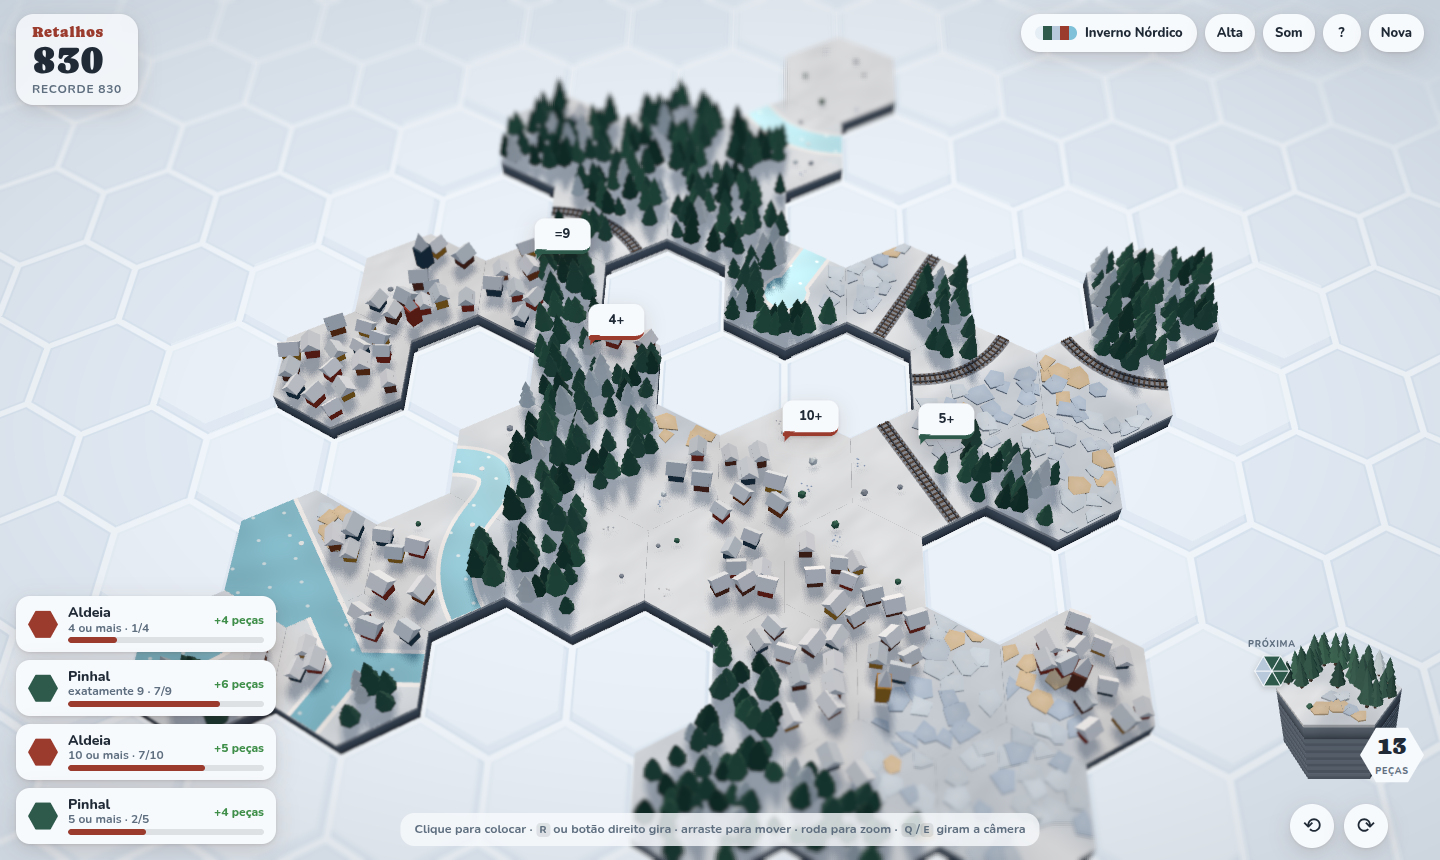
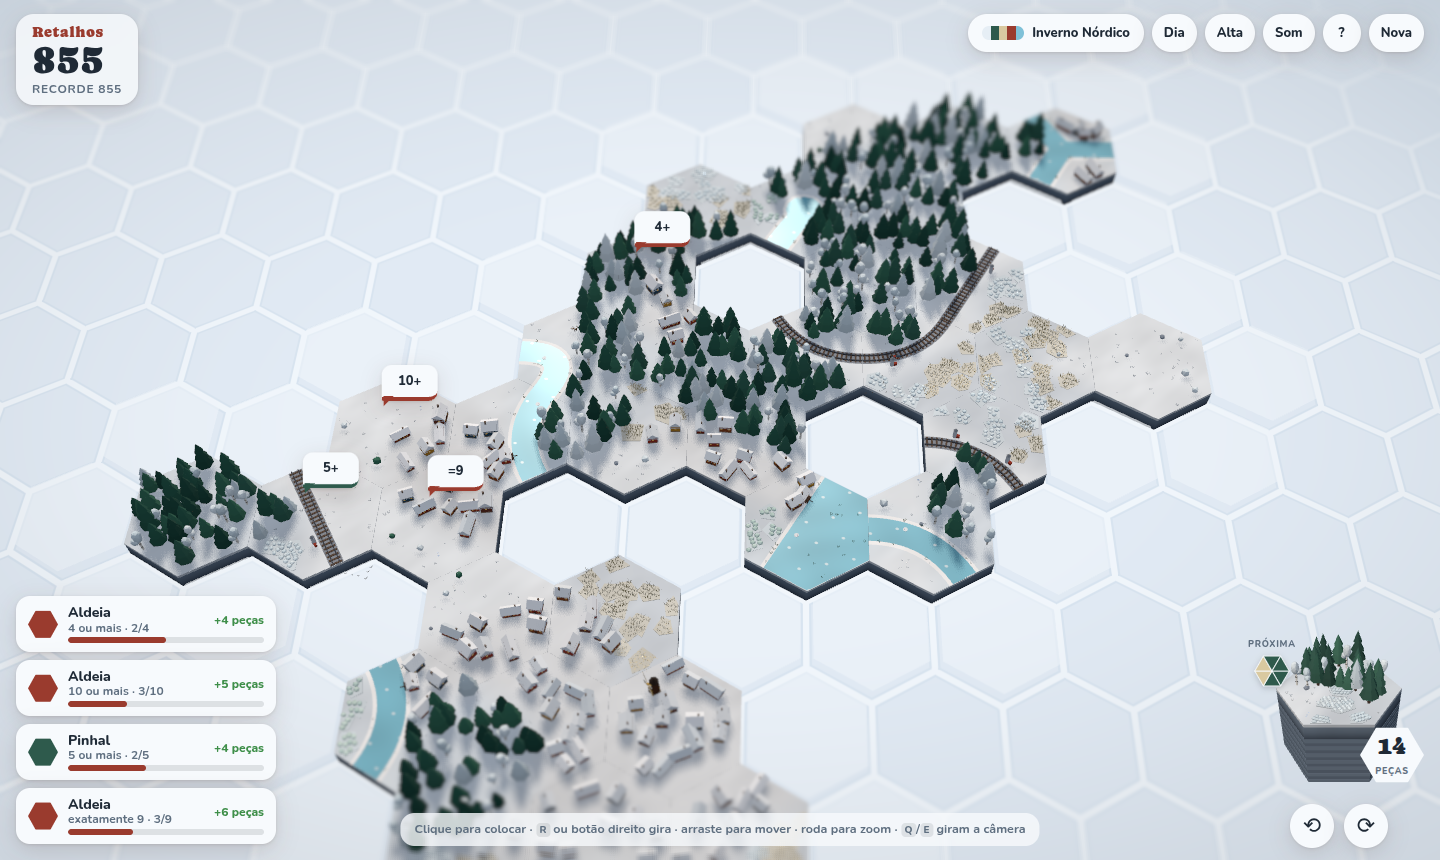
Documentação da v3, rótulos curtos no celular, burro e búfalo
- README: temas por época, interações, hora do dia, parâmetros novos
- VIABILIDADE: seção 13 (v3) com telas, custo do visual e otimizações
- Barra superior com ícones em telas estreitas; amostras de cor com borda
- Kits de animal burro/mula e búfalo (Minas Colonial e Song), sugeridos
  na pesquisa de temas

Claude-Session: https://claude.ai/code/session_01LLbuUXnr1j997yzXR9YYTE

diff --git a/src/render/lib.ts b/src/render/lib.ts
@@ -666,6 +666,10 @@ function animalGeometry(kind: AnimalKind): THREE.BufferGeometry {
       return kit([{ geo: box(0.052, 0.026, 0.024, 0, 0.022), color: '#fff', tint: 1 }, { geo: box(0.018, 0.018, 0.016, 0.034, 0.03), color: '#fff', tint: 1 }, { geo: box(0.006, 0.006, 0.016, 0.044, 0.028), color: '#e8b8a8' }, ...legs(0.018, 0.008, 0.022, '#3a3230')]);
     case 'horse':
       return kit([{ geo: box(0.048, 0.022, 0.017, 0, 0.03), color: '#fff', tint: 1 }, { geo: box(0.012, 0.028, 0.012, 0.026, 0.044).rotateZ(-0.35), color: '#fff', tint: 1 }, { geo: box(0.02, 0.01, 0.01, 0.044, 0.062), color: '#fff', tint: 1 }, { geo: box(0.006, 0.02, 0.004, -0.026, 0.032), color: '#2a2220' }, ...legs(0.017, 0.006, 0.03, '#2a2220')]);
+    case 'donkey':
+      return kit([{ geo: box(0.04, 0.02, 0.016, 0, 0.026), color: '#fff', tint: 1 }, { geo: box(0.011, 0.024, 0.011, 0.022, 0.038).rotateZ(-0.4), color: '#fff', tint: 1 }, { geo: box(0.018, 0.011, 0.011, 0.036, 0.054), color: '#fff', tint: 1 }, { geo: box(0.008, 0.004, 0.008, 0.045, 0.052), color: '#e8e0d4' }, ...[0.003, -0.003].map((z) => ({ geo: cone(0.003, 0.018, 3, 0.03, 0.06, z).rotateZ(0.3), color: '#4a4038' })), { geo: box(0.004, 0.016, 0.003, -0.022, 0.024), color: '#3a3230' }, ...legs(0.014, 0.006, 0.026, '#4a4038')]);
+    case 'buffalo':
+      return kit([{ geo: box(0.054, 0.028, 0.026, 0, 0.022), color: '#fff', tint: 1 }, { geo: box(0.018, 0.017, 0.016, 0.034, 0.03), color: '#fff', tint: 1 }, ...[0.012, -0.012].map((z) => ({ geo: cone(0.004, 0.028, 4, 0.034, 0.042, z).rotateX(z > 0 ? 1.4 : -1.4).translate(0, 0.0, 0), color: '#d8ccb8' })), ...legs(0.019, 0.009, 0.022, '#2a2624')]);
     case 'llama':
       return kit([{ geo: box(0.036, 0.02, 0.018, 0, 0.03), color: '#fff', tint: 1 }, { geo: box(0.01, 0.04, 0.01, 0.017, 0.045), color: '#fff', tint: 1 }, { geo: box(0.016, 0.01, 0.01, 0.022, 0.084), color: '#fff', tint: 1 }, { geo: cone(0.003, 0.01, 4, 0.016, 0.094, 0.003), color: '#3a2e28' }, ...legs(0.012, 0.006, 0.03, '#6a5040')]);
     case 'camel':
@@ -762,10 +766,10 @@ function vehicleGeometry(kind: VehicleKind, [body, det]: [string, string], anima
         car: kit([{ geo: box(0.05, 0.016, 0.034, 0, 0.018), color: body }, { geo: jitter(ico(0.02, 0), 0.004, 30).scale(1.2, 0.7, 0.9).translate(0, 0.036, 0), color: det }, ...wheels([0], 0.016, 0.02), { geo: box(0.04, 0.003, 0.003, 0.04, 0.024, 0.01), color: '#5a4032' }, { geo: box(0.04, 0.003, 0.003, 0.04, 0.024, -0.01), color: '#5a4032' }]),
       };
     case 'caravan': {
-      const a = animal === 'camel' || animal === 'llama' || animal === 'horse' ? animal : 'horse';
+      const a = animal === 'camel' || animal === 'llama' || animal === 'horse' || animal === 'donkey' ? animal : 'horse';
       const pack = (x: number, y: number) => [{ geo: box(0.014, 0.014, 0.03, x, y), color: det }];
       const base = animalGeometry(a);
-      const packY = a === 'camel' ? 0.07 : a === 'llama' ? 0.05 : 0.052;
+      const packY = a === 'camel' ? 0.07 : a === 'llama' ? 0.05 : a === 'donkey' ? 0.046 : 0.052;
       return { head: mergeGeometries([base, kit(pack(-0.004, packY))])!, car: mergeGeometries([base.clone(), kit([...pack(-0.004, packY), { geo: box(0.018, 0.01, 0.022, -0.004, packY + 0.014), color: body }])])! };
     }
   }

diff --git a/index.html b/index.html
@@ -23,11 +23,11 @@
         <button id="btn-theme" class="chip" type="button" aria-haspopup="true" aria-expanded="false">
           <span id="theme-swatch" class="swatch" aria-hidden="true"></span><span id="theme-name">Tema</span>
         </button>
-        <button id="btn-time" class="icon-btn" type="button" title="Hora do dia (L)">Dia</button>
+        <button id="btn-time" class="icon-btn" type="button" title="Hora do dia (L)"><span class="long">Dia</span><span class="short" aria-hidden="true">☀</span></button>
         <button id="btn-quality" class="icon-btn" type="button" title="Qualidade gráfica">Auto</button>
-        <button id="btn-sound" class="icon-btn" type="button" title="Som" aria-pressed="true">Som</button>
+        <button id="btn-sound" class="icon-btn" type="button" title="Som" aria-pressed="true"><span class="long">Som</span><span class="short" aria-hidden="true">♪</span></button>
         <button id="btn-help" class="icon-btn" type="button" title="Como jogar (H)">?</button>
-        <button id="btn-new" class="icon-btn" type="button" title="Nova partida (N)">Nova</button>
+        <button id="btn-new" class="icon-btn" type="button" title="Nova partida (N)"><span class="long">Nova</span><span class="short" aria-hidden="true">↻</span></button>
       </nav>
     </header>
 

diff --git a/src/main.ts b/src/main.ts
@@ -592,12 +592,17 @@ qualityBtn.addEventListener('click', () => {
   hud.toast(`Qualidade: ${qualityLabel[next]}`);
 });
 const TIME_LABEL: Record<TimeOfDay, string> = { day: 'Dia', dusk: 'Tarde', night: 'Noite' };
+const TIME_ICON: Record<TimeOfDay, string> = { day: '☀', dusk: '◐', night: '☾' };
+const setTimeLabel = (t: TimeOfDay) => {
+  timeBtn.querySelector('.long')!.textContent = TIME_LABEL[t];
+  timeBtn.querySelector('.short')!.textContent = TIME_ICON[t];
+};
 const timeBtn = document.getElementById('btn-time')!;
 function cycleTime() {
   const order: TimeOfDay[] = ['day', 'dusk', 'night'];
   const next = order[(order.indexOf(world.timeOfDay) + 1) % 3];
   world.setTimeOfDay(next);
-  timeBtn.textContent = TIME_LABEL[next];
+  setTimeLabel(next);
   store.set('time', next);
 }
 timeBtn.addEventListener('click', cycleTime);
@@ -605,7 +610,7 @@ timeBtn.addEventListener('click', cycleTime);
   const saved = (params.get('time') ?? store.get('time')) as TimeOfDay | null;
   if (saved && saved in TIME_LABEL) {
     world.setTimeOfDay(saved);
-    timeBtn.textContent = TIME_LABEL[saved];
+    setTimeLabel(saved);
   }
 }
 

diff --git a/src/ui/style.css b/src/ui/style.css
@@ -158,6 +158,11 @@ kbd {
   padding: 0 12px;
 }
 
+.icon-btn .short {
+  display: none;
+  font-size: 16px;
+}
+
 .icon-btn[aria-pressed='false'] {
   opacity: 0.55;
   text-decoration: line-through;
@@ -729,6 +734,7 @@ kbd {
   width: 12px;
   height: 12px;
   border-radius: 3px;
+  box-shadow: inset 0 0 0 1px color-mix(in srgb, var(--ink) 25%, transparent);
 }
 
 .legend span {
@@ -742,6 +748,7 @@ kbd {
   height: 12px;
   border-radius: 3px;
   flex: none;
+  box-shadow: inset 0 0 0 1px color-mix(in srgb, var(--ink) 25%, transparent);
 }
 
 /* ---------- telas pequenas */
@@ -816,6 +823,19 @@ kbd {
   }
   .toasts {
     top: calc(env(safe-area-inset-top, 0px) + 12px);
+  }
+}
+
+@media (max-width: 520px) {
+  .icon-btn .long {
+    display: none;
+  }
+  .icon-btn .short {
+    display: inline;
+  }
+  .icon-btn {
+    min-width: 34px;
+    padding: 0 8px;
   }
 }
 

diff --git a/src/themes/eras.ts b/src/themes/eras.ts
@@ -130,7 +130,7 @@ export const ERA_THEMES: Theme[] = [
     bush: ['#5f8f5a', '#6fa068'],
     flowers: ['#fbf6ee', '#f3c9d2', '#f4d35a'],
     rock: '#8f9590',
-    animals: { kind: 'cow', colors: ['#6d6f6f', '#5c5e5e', '#7d7f7c'] },
+    animals: { kind: 'buffalo', colors: ['#6d6f6f', '#5c5e5e', '#7d7f7c'] },
     boat: 'junk',
     boatColors: ['#5b4030', '#b98a52'],
     lily: '#6fa86a',
@@ -398,7 +398,7 @@ export const ERA_THEMES: Theme[] = [
     bush: ['#4f8a44', '#5f9a4c'],
     flowers: ['#f2c94a', '#c58ad0', '#ffffff', '#e58fb0'],
     rock: '#a58f78',
-    animals: { kind: 'horse', colors: ['#8a6a4a', '#6e5238', '#9a7a58'] },
+    animals: { kind: 'donkey', colors: ['#8a6a4a', '#6e5238', '#9a7a58'] },
     boat: 'canoe',
     boatColors: ['#7a5238', '#d9c08a'],
     lily: '#5f9a4a',

diff --git a/src/themes/types.ts b/src/themes/types.ts
@@ -93,7 +93,7 @@ export interface CropKind {
   soil: string;
 }
 
-export type AnimalKind = 'sheep' | 'cow' | 'goat' | 'horse' | 'llama' | 'camel' | 'deer' | 'rover';
+export type AnimalKind = 'sheep' | 'cow' | 'goat' | 'horse' | 'donkey' | 'buffalo' | 'llama' | 'camel' | 'deer' | 'rover';
 export type BoatKind = 'rowboat' | 'sailboat' | 'felucca' | 'junk' | 'longship' | 'barge' | 'canoe' | 'reedboat' | 'hover';
 /** Como a borda "linha" (índice 5) é desenhada. */
 export type RoadStyle = 'rail' | 'dirt' | 'stone' | 'sand' | 'maglev';

diff --git a/docs/VIABILIDADE.md b/docs/VIABILIDADE.md
@@ -2,12 +2,13 @@
 
 **Pergunta:** dá para criar um jogo parecido com Dorfromantik, com tema adaptável, pequenas mudanças de regra e visual próprio, que rode bem, fluido e bonito?
 
-**Resposta curta: sim.** Para não ficar só no papel, construímos um protótipo jogável nesta sessão. Ele tem regras completas, 5 temas trocáveis em tempo real, animações, som, suporte a toque e perfis de qualidade automáticos, e cabe em um único arquivo HTML de 640 KB (166 KB comprimido). O risco técnico é baixo. Os riscos reais estão em outro lugar: afinar o "prazer" do loop, dar identidade visual própria (por questões legais e de mercado) e o escopo de arte para vários temas.
+**Resposta curta: sim.** Para não ficar só no papel, construímos um protótipo jogável nesta sessão. Ele tem regras completas, animações, som, suporte a toque e perfis de qualidade automáticos. Na segunda rodada (v3, seção 13) ganhou **14 temas de países e épocas**, construções detalhadas, **interações entre tipos de borda**, trigo que ondula ao vento, barcos, trens, caravanas, animais e ciclo dia/noite. Tudo cabe em um único arquivo HTML de cerca de 700 KB. O risco técnico é baixo. Os riscos reais estão em outro lugar: afinar o "prazer" do loop, dar identidade visual própria (por questões legais e de mercado) e o escopo de arte para vários temas.
 
-![Tema Vale Pastel](screens/vale.png)
+![Toscana Renascentista](screens/toscana.png)
 
 Documentos relacionados:
 - [PESQUISA.md](PESQUISA.md): pesquisa de apoio com fontes (mecânicas do original, stacks, desempenho, mercado, jurídico, temas, esforço), feita por um agente Sonnet.
+- [TEMAS.md](TEMAS.md): pesquisa histórica dos 8 temas de países e épocas (também feita por um agente Sonnet).
 - [README.md](../README.md): como rodar, controles e arquitetura do protótipo.
 
 ---
@@ -19,7 +20,7 @@ Documentos relacionados:
 | Regras e loop | ✅ Viável | Implementadas em ~600 linhas de TypeScript puro (`src/core`), sem dependência de renderização, e conferidas em 3.000 partidas simuladas sem falha (Apêndice A). |
 | Visual bonito | ✅ Viável | Estilo "diorama" com peças procedurais, sombras suaves, tilt-shift, água animada, vento nas árvores e fumaça. Veja as telas na seção 4. |
 | Rodar bem | ✅ Viável, com medição pendente em GPU real | Uma partida típica (300 peças) usa 61 draw calls e 2,7 ms de CPU por quadro, de um orçamento de 16,7 ms. Com 2.500 peças: 102 draw calls e 6 ms. Detalhes na seção 5. |
-| Tema adaptável | ✅ Viável e barato | Um tema é um objeto de dados, com cerca de 50 linhas. Os 5 temas reaproveitam a mesma geometria e o mesmo código. |
+| Tema adaptável | ✅ Viável e barato | Um tema é um objeto de dados, com cerca de 70 linhas, que escolhe "kits" de forma e cor. Os 14 temas (do Egito Antigo a uma colônia em Marte) usam o mesmo código (seção 13). |
 | Pequenas adaptações de regra | ✅ Viável | Todas as constantes estão em `Rules`, e cada tema pode sobrescrevê-las (ex.: Marte começa com 36 peças e recebe mais missões). |
 | Jurídico | ⚠ Cuidado | Regras de jogo não são protegidas, mas nome, arte, UI e "look and feel" podem ser. Seção 8. |
 | Mercado | ⚠ Competitivo | O gênero é provado, mas movido a hits. Seção 9. |
@@ -167,7 +168,7 @@ Um tema é **dado, não código**: paleta de cada terreno, nomes, cores da inter
 }
 ```
 
-**Temas implementados:** Vale Pastel, Cerrado Dourado, Inverno Nórdico, Jardim Sakura e Colônia Marciana.
+**Temas implementados:** 14. Seis de base (Vale Pastel, Holanda Dourada, Cerrado Dourado, Inverno Nórdico, Jardim Sakura, Colônia Marciana) e oito históricos (Egito do Nilo, Jade Song, Terra dos Vikings, Toscana Renascentista, Andes Incas, Edo Tranquilo, Minas Colonial, Velho Oeste). Veja a seção 13.
 
 **Ideias com twist leve** (da pesquisa, [PESQUISA.md §7](PESQUISA.md)). Todos só recompensam, para manter o clima relaxante:
 
@@ -254,6 +255,68 @@ Custo aproximado (pesquisa, faixa larga): vertical slice de US$ 9 a 48 mil; jogo
 3. Escolher o tema-âncora (o Cerrado, por exemplo, é um diferencial de mercado) e o nome definitivo.
 4. Implementar bandeiras, desfazer e as 3 próximas peças, e depois peças especiais.
 5. Contratar ou definir a direção de arte do tema-âncora.
+
+---
+
+## 13. Evolução v3: temas por época, visual detalhado e interações
+
+**Pedido:** explorar temas de vários países e épocas, um visual mais detalhado e com animações, e interações entre os tipos de conexão, mantendo casa, rio, árvore, campo e plantação (com o trigo balançando ao vento).
+
+**O que mudou:**
+
+- **Temas como kits.** O tema passou a escolher kits de forma (12 árvores, 5 corpos de casa × 9 telhados, com janelas, portas, enxaimel e chaminé; 10 marcos; 15 plantações; 10 animais; 9 barcos; 5 estilos de estrada; 4 veículos) além de cores e nomes. Um agente Sonnet pesquisou e escreveu 8 temas históricos, com as fontes e os anacronismos assumidos em [TEMAS.md](TEMAS.md).
+- **Plantações de verdade.** Cada setor de plantação vira parcelas com fileiras de plantas. Um shader desloca as plantas em ondas de vento que atravessam o campo e deixam as pontas mais claras, como trigo balançando. Capim, juncos e flores seguem a mesma ideia.
+- **Interações entre tipos de borda** (regra nova, pura, em `src/core/synergy.ts`). Quando bordas comuns diferentes se encostam, o encontro deixa de ser desperdício:
+
+  | Encontro | Efeito |
+  |---|---|
+  | vila + floresta | +5 e serraria/carpintaria |
+  | vila + plantação | +5 e moinho de vento (ou celeiro, conforme o tema) |
+  | vila + prado | +5 e pasto com animais |
+  | plantação + prado | +5 e colmeias |
+
+  O encaixe continua valendo mais (+10), e o perfeito continua exigindo tudo igual. A interação cria uma segunda camada de decisão ("encosto a vila no trigal para ganhar o moinho?"). A prévia mostra as bordas em dourado e a construção antes de colocar. Dentro da própria peça surgem construções sem pontos: roda d'água (vila na beira do rio), irrigação (plantação ao lado do rio fica mais verde e alta), estação e silo junto da ferrovia.
+- **Mundo vivo.** Barcos percorrem a rede de rios, trens, carroças e caravanas seguem estradas e trilhos (fazendo meia-volta nas estações), pás de moinho e rodas d'água giram, animais pastam andando e parando, bandos de pássaros circulam e sombras de nuvens atravessam o mapa.
+- **Dia, entardecer e noite**, com transição suave. À noite as janelas acendem.
+
+| Egito do Nilo | Holanda Dourada |
+|---|---|
+| ![](screens/egito.png) | ![](screens/holanda.png) |
+| **Minas Colonial** | **Terra dos Vikings** |
+| ![](screens/colonial.png) | ![](screens/viking.png) |
+| **Velho Oeste** | **Jade Song** |
+| ![](screens/oeste.png) | ![](screens/song.png) |
+| **Trigo, lavanda e girassóis de perto** | **Prévia de interações (bordas douradas e moinho)** |
+| ![](screens/trigo.png) | ![](screens/interacoes.png) |
+| **Noite na Holanda** | **Entardecer na Toscana** |
+| ![](screens/noite.png) | ![](screens/tarde.png) |
+
+Menu de temas agrupado por época e ajuda com a legenda das interações:
+
+| | |
+|---|---|
+| ![](screens/menu-temas.png) | ![](screens/ajuda.png) |
+
+### Custo do visual novo
+
+O detalhe tem preço. A primeira medição da v3 mostrou **3,1 M de triângulos por quadro com 300 peças**, cinco vezes a v1, porque a lavanda sozinha somava 800 mil. Depois de medir o custo por kit (`window.__pools()`), aplicamos:
+
+1. geometrias mais leves para lavanda, chá, trigo e girassol, e janelas como planos em vez de caixas;
+2. **nível de detalhe por distância:** metade das plantas e do capim fica num segundo grupo, que some quando a câmera se afasta, justamente quando elas ficam minúsculas;
+3. a terra das parcelas "puxa" a cor da cultura, então de longe o campo continua dourado, verde ou listrado de tulipas mesmo com menos plantas;
+4. plantas e capim não projetam sombra.
+
+| Peças (qualidade alta) | v1: draw calls | v1: triângulos | v3: draw calls | v3: triângulos | v3: CPU por quadro |
+|---|---|---|---|---|---|
+| 300 | 61 | 0,62 M | 85 | 1,37 M | 4,0 ms |
+| 1.000 | 86 | 2,17 M | 123 | 4,55 M | 7,2 ms |
+| 2.500 (baixa) | 90 | 2,93 M | 114 | 5,58 M | 6,6 ms |
+
+Medido em renderização por software, como na seção 5. **Leitura:** uma partida típica ficou com cerca do dobro da v1, o que ainda cabe folgado em GPU de desktop. No celular, o modo Auto começa em Média, com metade das plantas e sem sombras. Para mapas muito grandes, o próximo passo é o culling por região da decoração (seção 5, item 1), que ficou mais importante na v3.
+
+### O que falta para os temas ficarem mais fiéis
+
+Na lista priorizada do [TEMAS.md](TEMAS.md), burro/mula e búfalo já entraram (Minas Colonial e Song). Os próximos são ponte em arco sobre rios, torre d'água e moinho-bomba para o Oeste, portais (torii, paifang, portal inca), templos por cultura (pilone egípcio, trapezoidal inca), armazém sobre estacas e as culturas de batata, linho e amoreira.
 
 ---
 

diff --git a/README.md b/README.md
@@ -1,25 +1,37 @@
 # Retalhos
 
-Protótipo de puzzle relaxante de peças hexagonais, no gênero de Dorfromantik, com **temas trocáveis**, regras configuráveis e visual próprio. Feito com Three.js, TypeScript e Vite, sem nenhum arquivo de arte: peças, árvores, casas, rios e sons são gerados em código.
+Puzzle relaxante de peças hexagonais, no gênero de Dorfromantik, com **14 temas de países e épocas**, **interações entre tipos de borda** e um mundo que se mexe: trigo ondulando ao vento, barcos descendo os rios, trens e caravanas nas estradas, moinhos girando, animais pastando e janelas que acendem à noite. Feito com Three.js, TypeScript e Vite, sem nenhum arquivo de arte: peças, casas, plantações, animais e sons são gerados em código.
 
-![Cerrado Dourado](docs/screens/cerrado.png)
+![Toscana Renascentista](docs/screens/toscana.png)
 
 - **Estudo de viabilidade:** [docs/VIABILIDADE.md](docs/VIABILIDADE.md)
-- **Pesquisa de apoio (mecânicas, stacks, mercado, jurídico):** [docs/PESQUISA.md](docs/PESQUISA.md)
+- **Pesquisa de mecânicas, stacks, mercado e aspectos legais:** [docs/PESQUISA.md](docs/PESQUISA.md)
+- **Pesquisa dos temas históricos:** [docs/TEMAS.md](docs/TEMAS.md)
 
 ## Rodar
 
 ```bash
 npm install
 npm run dev        # servidor de desenvolvimento
-npm run build      # gera dist/index.html (arquivo único, ~640 KB)
+npm run build      # gera dist/index.html (arquivo único)
 npm run typecheck
-npm test           # simula 600 partidas e confere regras, grupos, missões e replay
+npm test           # simula 600 partidas e confere regras, interações, missões e replay
 ```
 
 ## Como jogar
 
-Coloque peças encostadas no mapa. Cada borda que combina com a vizinha vale 10 pontos. **Rio e trilho** precisam continuar: só encostam neles mesmos. Quando a peça encosta em 2 ou mais vizinhas e todas as bordas combinam, o encaixe é **perfeito**. Cercar uma peça com 6 vizinhas encaixadas devolve uma peça à pilha. **Missões** pedem grupos de certo tamanho ("9 ou mais", "exatamente 8") e dão peças extras. A partida acaba quando a pilha esvazia.
+Coloque peças encostadas no mapa. Cada borda que combina com a vizinha vale 10 pontos. **Rio e estrada** precisam continuar: só encostam neles mesmos. Quando a peça encosta em 2 ou mais vizinhas e todas as bordas combinam, o encaixe é **perfeito**. Cercar uma peça com 6 vizinhas encaixadas devolve uma peça à pilha. **Missões** pedem grupos de certo tamanho ("9 ou mais", "exatamente 8") e dão peças extras. A partida acaba quando a pilha esvazia.
+
+**Interações:** algumas bordas diferentes também "conversam". Quando se encostam, rendem +5 e erguem uma construção na borda. A prévia acende em dourado antes de você colocar a peça.
+
+| Encontro | Construção (nome muda por tema) |
+|---|---|
+| vila + floresta | serraria / carpintaria |
+| vila + plantação | moinho de vento ou celeiro |
+| vila + prado | pasto com animais |
+| plantação + prado | colmeias |
+
+Algumas construções aparecem sozinhas dentro das peças, sem pontuar: vila à beira do rio ganha roda d'água, plantação irrigada fica mais verde e alta, vila junto à ferrovia ganha estação e plantação junto dela ganha silo.
 
 | Ação | Mouse / teclado | Toque |
 |---|---|---|
@@ -28,53 +40,66 @@ Coloque peças encostadas no mapa. Cada borda que combina com a vizinha vale 10 
 | Mover câmera | arrastar, `WASD` ou setas | arrastar |
 | Zoom | roda do mouse, `+` / `-` | pinça |
 | Girar câmera | `Q` / `E`, ou arrastar com o botão direito | — |
+| Dia, entardecer e noite | `L` ou botão ☀ | botão ☀ |
 | Ajuda, nova partida, estatísticas | `H`, `N`, `F` | botões no topo |
+
+## Temas
+
+| Época | Temas |
+|---|---|
+| Antiguidade | Egito do Nilo |
+| Séculos V a XV | Jade Song (China), Terra dos Vikings, Toscana Renascentista, Andes Incas |
+| Séculos XVI a XVIII | Holanda Dourada, Edo Tranquilo (Japão), Minas Colonial |
+| Séculos XIX a XXI | Velho Oeste, Cerrado Dourado, Inverno Nórdico, Jardim Sakura |
+| Futuro | Colônia Marciana |
+| Fantasia | Vale Pastel |
 
 ## Parâmetros de URL
 
 | Parâmetro | Efeito |
 |---|---|
-| `?theme=cerrado` | tema inicial (`vale`, `cerrado`, `inverno`, `sakura`, `marte`) |
-| `?seed=123` | partida reproduzível |
+| `?theme=toscana` | tema inicial (ids em `src/themes/themes.ts` e `eras.ts`) |
+| `?seed=123` | partida reproduzível: a mesma semente dá a mesma sequência de peças |
+| `?time=night` | `day`, `dusk` ou `night` |
 | `?quality=high` | `auto`, `high`, `medium` ou `low` |
 | `?debug` | mostra FPS, draw calls, triângulos e instâncias |
 | `?auto=40` | a IA coloca 40 peças de uma vez (tabuleiro de exemplo) |
 | `?demo` | a IA joga sozinha, com animação |
-| `?stress=2500` | teste de carga com 2.500 peças |
+| `?stress=1000` | teste de carga com 1.000 peças |
+| `?gallery` | mostra todos os kits do tema lado a lado (depuração visual) |
 
 ## Estrutura
 
 ```
-src/core/      regras puras (não importa three.js): hex, peças, tabuleiro, missões, IA
-src/themes/    temas como dados
-src/render/    gerador procedural de peças, chunks, instancing, pós-processamento
+src/core/      regras puras (não importa three.js): hex, peças, tabuleiro, missões, interações, IA
+src/themes/    temas como dados: types.ts (esquema), themes.ts (base), eras.ts (históricos)
+src/render/    lib.ts (kits e shaders), tileBuilder.ts (peça procedural), world.ts (cena, luz,
+               blocos estáticos, fantasma), life.ts (barcos, veículos, animais, moinhos, pássaros)
 src/ui/        HUD em HTML/CSS
 src/main.ts    entrada, fluxo da partida, salvamento, modos de teste
 scripts/       capturas de tela e teste de carga com Playwright
-tests/         simulação de partidas com oráculos independentes (regras, grupos, replay)
+tests/         simulação de partidas com oráculos independentes
 ```
 
 ## Criar um tema
 
-Adicione um objeto em `src/themes/themes.ts`, copiando um tema existente. Os campos principais são:
+Um tema é um objeto de dados (`Theme`, em `src/themes/types.ts`, com comentários em cada campo). Copie um tema de `eras.ts` e troque:
 
-- `terrainNames` / `terrainColors`: nomes e cores dos 6 terrenos (Prado, Floresta, Plantação, Vila, Rio, Trilhos).
-- `ground`, `side`, `water`, `bank`, `railBed`: paleta do chão.
-- `forest`: tipos de árvore (`conifer`, `round`, `blossom`, `palm`, `crystal`) com peso e cores.
-- `walls`, `roofs`, `roofStyle` (`gable`, `flat`, `dome`, `pagoda`): vilas.
-- `field`: cores dos retalhos de plantação.
-- `bg`, `sun`, `hemiSky` etc.: fundo e luz.
-- `rules` (opcional): sobrescreve `startTiles`, `perfectBonus`, `questChance`...
+- **nomes e cores** dos 6 terrenos, do chão, da água, do fundo e da luz;
+- **floresta:** formas de árvore (`conifer`, `oak`, `cypress`, `olive`, `palm`, `bamboo`, `araucaria`, `cactus`, `birch`, `blossom`, `round`, `crystal`) com peso e cores;
+- **vila:** tipos de casa (corpo `cottage`/`long`/`cube`/`tall`/`round` + telhado `gable`/`hip`/`flat`/`dome`/`pagoda`/`thatch`/`turf`/`stepgable`/`cone`, com enxaimel e chaminé opcionais) e um marco (`church`, `baroque`, `tower`, `pagoda`, `pyramid`, `obelisk`, `windmill`, `temple`, `stave`, `dome`);
+- **plantações:** `wheat`, `barley`, `corn`, `rice`, `tulip`, `lavender`, `sunflower`, `vineyard`, `sugarcane`, `papyrus`, `tea`, `coffee`, `cotton`, `quinoa`, `hydro`;
+- **animais, barco, estilo de estrada e veículo**, nomes das interações e, se quiser, regras próprias (`rules`).
 
-O tema aparece sozinho no menu.
+O tema aparece sozinho no menu, agrupado pela época. Para conferir as formas, abra `?gallery&theme=<id>`.
 
 ## Medições
 
 ```bash
 npm run build
 (cd dist && python3 -m http.server 4173) &
-node scripts/screenshots.mjs   # docs/screens/*.png
-node scripts/stress.mjs        # tabela de desempenho
+node scripts/screenshots.mjs   # docs/screens/*.png (SHOTS=egito,noite para escolher)
+node scripts/stress.mjs        # tabela de desempenho (RUNS=300:high para um caso)
 ```
 
 Os scripts usam o Chromium com renderização por software. Para medir FPS de verdade, abra `?stress=1000&debug` num navegador com GPU.
